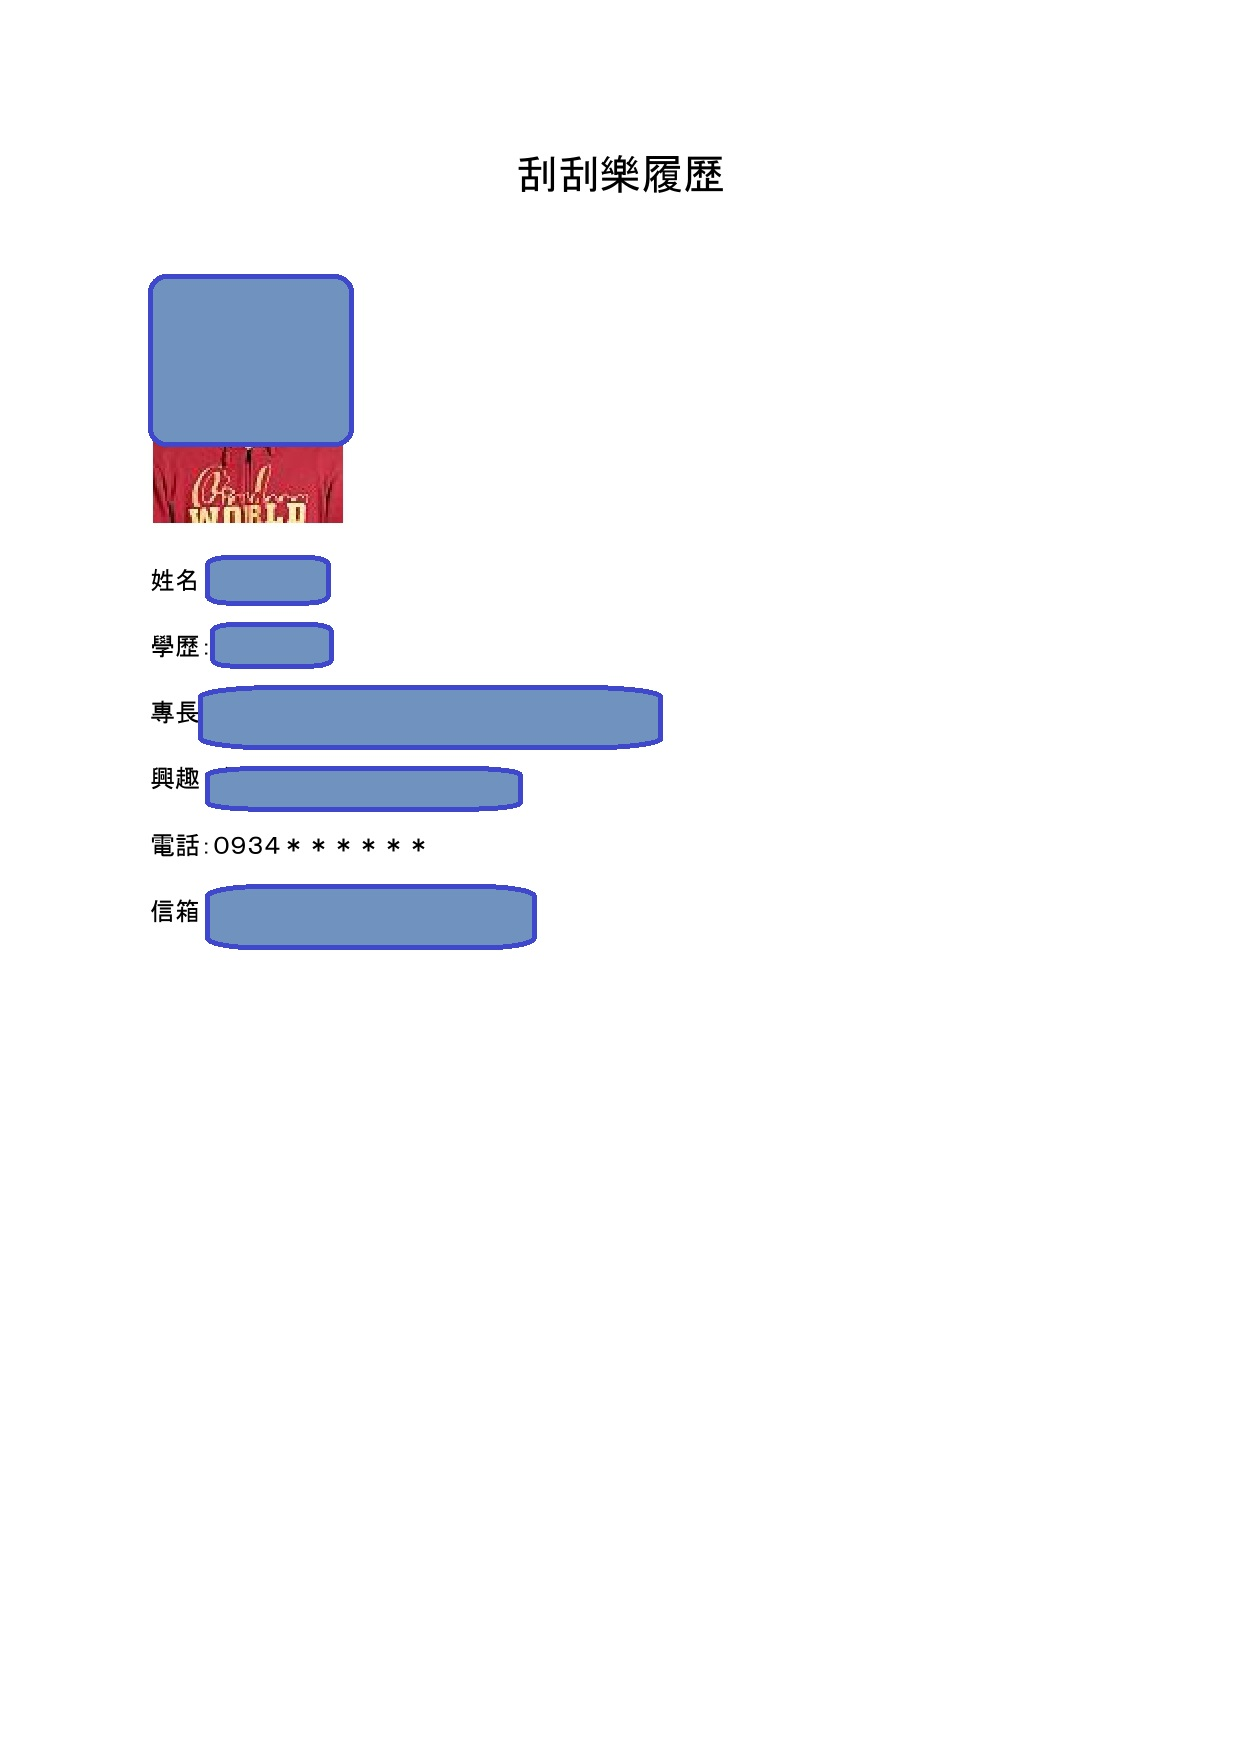
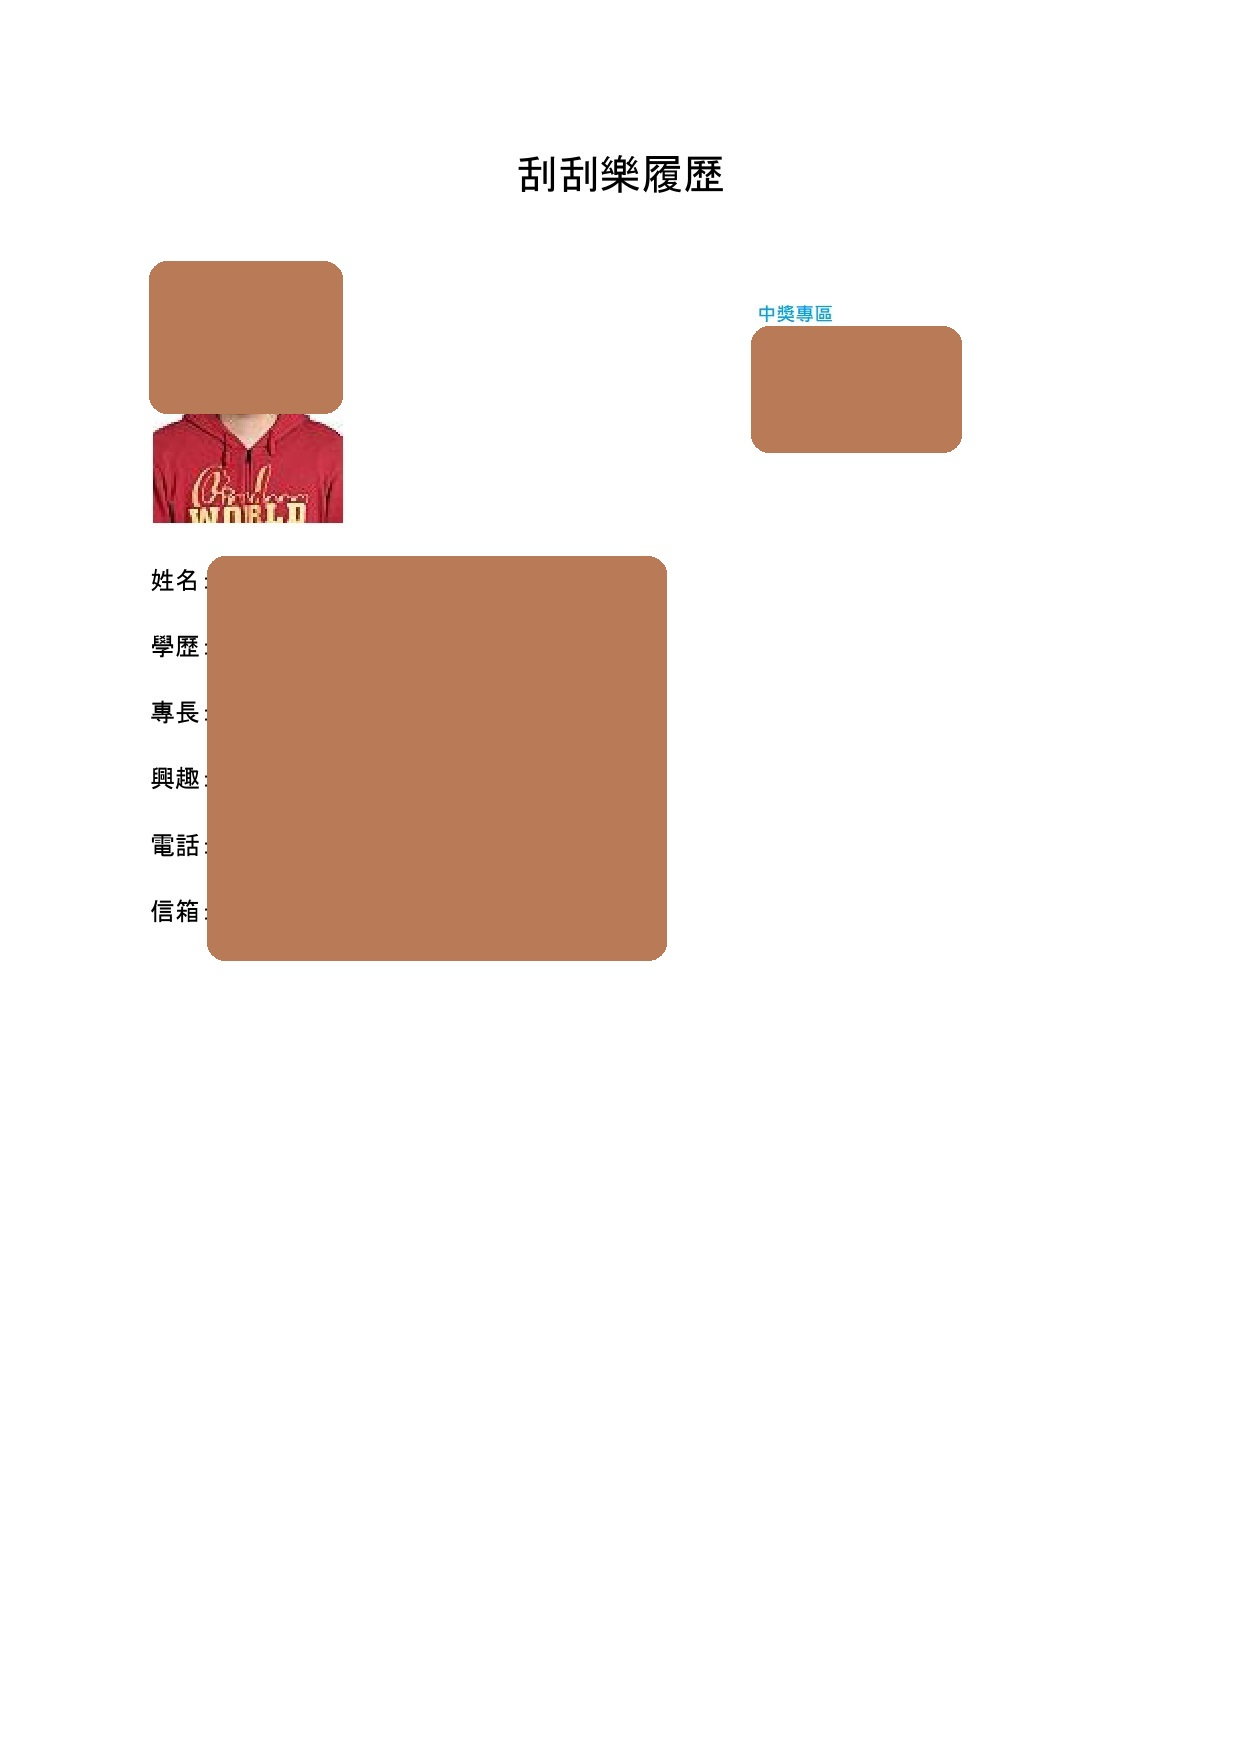
更新刮刮樂一些小東西

Changed region(s): [[0.153, 0.3077, 0.5507, 0.5538], [0.0918, 0.1231, 0.306, 0.2769], [0.5813, 0.1538, 0.7955, 0.2769]]

diff --git a/pen/pen.html b/pen/pen.html
@@ -2,8 +2,13 @@
 <html>
 	<head>
 		<meta charset="UTF-8">
+		<meta name="viewport" content="width=device-width, initial-scale=1, shrink-to-fit=no">
 		<title>刮刮履歷</title>
 		<style type="text/css">
+			body{
+				width:100%;
+				overflow-x:hidden;
+			}
             .area{
 				position: relative;
             }
@@ -21,10 +26,10 @@
 		</style>
 	</head>
 	<body>
-        <h1 id="title">請刮開指定區域</h1>
+        <h1 id="title">請刮開指定區域(中獎專區每次都不一樣喔)</h1>
 		<div class="area">
-            <canvas id="c2" width="1240" height="1754"></canvas>
-            <canvas id="c1" width="1240" height="1754"></canvas>
+            <canvas id="c2" width="1240" height="1000"></canvas>
+            <canvas id="c1" width="1240" height="1000"></canvas>
         </div>
 		
 		
@@ -38,7 +43,12 @@
 		
 		// 將完整履歷放到下層  canvas2
 		var img = new Image();
-		img.src = 'page1.jpg';
+		var r = Math.floor(Math.random() * 2);
+		if(r >= 1){
+			img.src = 'page1.jpg';
+		}else{
+			img.src = 'page1b.jpg';
+		}
 		img.onload = function(){
 			ctx2.drawImage(this,0,0,1240,1754)
 		}
